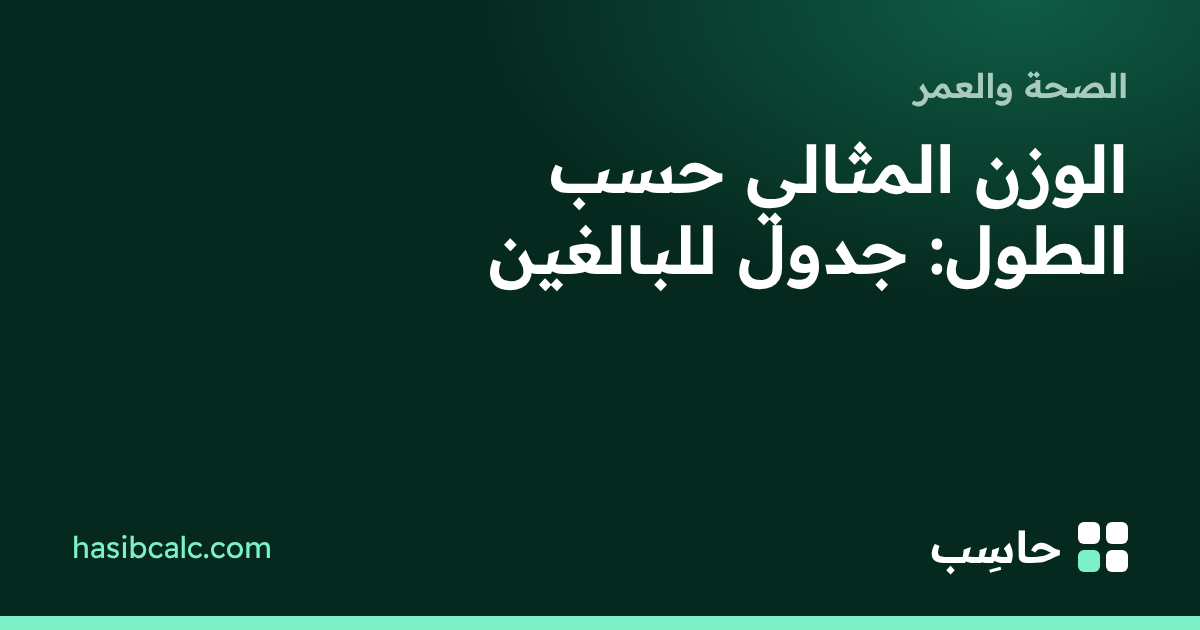
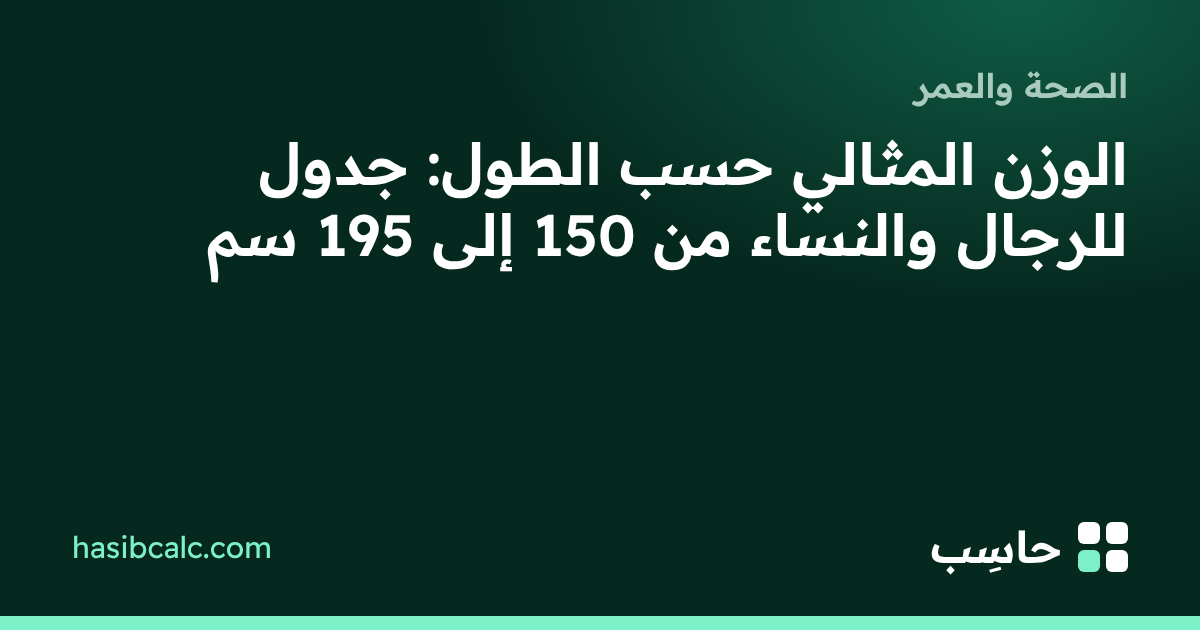
Strengthen the thin guides found in the site audit: zakat (UAE Council for Fatwa nisab by karat 85/92.73/97.15/113.4 g, hawl, 2.5%, worked example from the zakat lib, quick table, 6 FAQs, sources + src-note; source added to /zakat/ too), ideal weight (CDC/WHO categories, table 150–195 with mid-range
Claude-Session: https://claude.ai/code/session_01KKyL8svfUUTjcLXAGNStGe

Changed region(s): [[0.1542, 0.2111, 0.9558, 0.4825]]

diff --git a/src/data/guides.ts b/src/data/guides.ts
@@ -4,15 +4,15 @@ export type Guide = { slug: string; title: string; description: string; calc: st
 export const GUIDES: Guide[] = [
   { slug: 'white-friday-2026', title: 'الجمعة البيضاء 2026: كيف تحسب الخصم الحقيقي وتكشف الخصم الوهمي', description: 'الجمعة البيضاء يوم 27 نوفمبر 2026. عدّاد الأيام الباقية، وطريقة حساب الخصم الحقيقي، ولماذا لا يساوي خصمان 30% و20% خصماً واحداً 50%، وعلامات الخصم الوهمي.', calc: 'discount', date: '2026-10-25', minutes: 5, kicker: 'التسوق والنسب' },
   { slug: 'uae-national-day-2026', title: 'كم باقي على اليوم الوطني الإماراتي 55؟ عدّاد عيد الاتحاد 2026', description: 'عدّاد الأيام الباقية على اليوم الوطني الإماراتي (عيد الاتحاد) الخامس والخمسين يوم 2 ديسمبر 2026، وموعد الإجازة الرسمية، ولماذا نحتفل في 2 ديسمبر.', calc: 'days-between', date: '2026-10-25', updated: '2026-10-28', minutes: 3, kicker: 'التاريخ والوقت' },
-  { slug: 'new-year-2027', title: 'كم باقي على 2027؟ عدّاد رأس السنة الميلادية', description: 'عدّاد الأيام الباقية على رأس السنة الميلادية 2027 (الجمعة 1 يناير)، مع موعد رأس السنة الهجرية 1449 وأهم مواعيد السنة الجديدة.', calc: 'days-between', date: '2026-10-25', minutes: 3, kicker: 'التاريخ والوقت' },
+  { slug: 'new-year-2027', title: 'كم باقي على 2027؟ عدّاد رأس السنة الميلادية', description: 'عدّاد الأيام الباقية على رأس السنة الميلادية 2027 (الجمعة 1 يناير)، مع موعد رأس السنة الهجرية 1449 وأهم مواعيد السنة الجديدة.', calc: 'days-between', date: '2026-10-25', updated: '2026-10-28', minutes: 3, kicker: 'التاريخ والوقت' },
   { slug: 'ramadan-1448', title: 'كم باقي على رمضان 1448؟ موعد رمضان والعيدين بتقويم أم القرى', description: 'عدّاد الأيام المتبقية على رمضان 1448 هـ، وموعد أول رمضان وعيد الفطر ويوم عرفة وعيد الأضحى بتقويم أم القرى، ولماذا قد يختلف الإعلان الرسمي يوماً.', calc: 'hijri', date: '2026-10-21', updated: '2026-10-24', minutes: 4, kicker: 'التاريخ والوقت' },
   { slug: 'end-of-service-guide', title: 'مكافأة نهاية الخدمة في الإمارات: الدليل الكامل بالأمثلة', description: 'كيف تُحسب مكافأة نهاية الخدمة للقطاع الخاص في الإمارات وفق المادة 51: الأجر اليومي، و21 و30 يوماً، والحد الأعلى، وأمثلة محسوبة.', calc: 'end-of-service', date: '2026-10-21', updated: '2026-10-28', minutes: 6, kicker: 'المال والعمل' },
   { slug: 'flat-vs-reducing-interest', title: 'الفرق بين الفائدة الثابتة والمتناقصة وطريقة حساب الفائدة المتناقصة: مثال محسوب', description: 'لماذا تبدو الفائدة الثابتة 4.5% أرخص وهي ليست كذلك؟ مقارنة محسوبة بين الفائدة الثابتة والمتناقصة على قرض 100,000 درهم.', calc: 'loan', date: '2026-10-21', updated: '2026-10-28', minutes: 5, kicker: 'المال والعمل' },
-  { slug: 'vat-gulf-guide', title: 'ضريبة القيمة المضافة في الخليج: النسب وطريقة الحساب', description: 'نسب ضريبة القيمة المضافة في الإمارات والسعودية والبحرين وعُمان، وكيف تضيف الضريبة إلى السعر أو تستخرجها من سعر شامل.', calc: 'vat', date: '2026-10-21', minutes: 4, kicker: 'التسوق والنسب' },
-  { slug: 'zakat-step-by-step', title: 'كيف أحسب زكاة مالي؟ خطوة بخطوة مع مثال', description: 'طريقة حساب زكاة المال: النصاب بالذهب، والحول، وما يدخل في الحساب وما يُخصم، مع مثال محسوب بربع العشر.', calc: 'zakat', date: '2026-10-21', minutes: 5, kicker: 'المال والعمل' },
+  { slug: 'vat-gulf-guide', title: 'ضريبة القيمة المضافة في الخليج: النسب وطريقة الحساب', description: 'نسب ضريبة القيمة المضافة في الإمارات والسعودية والبحرين وعُمان، وكيف تضيف الضريبة إلى السعر أو تستخرجها من سعر شامل، مع جداول جاهزة وطريقة فحص الفاتورة.', calc: 'vat', date: '2026-10-21', updated: '2026-10-28', minutes: 5, kicker: 'التسوق والنسب' },
+  { slug: 'zakat-step-by-step', title: 'طريقة حساب زكاة المال خطوة بخطوة: النصاب بالذهب ومثال محسوب', description: 'كيف تحسب زكاة المال: النصاب قيمة 85 غراماً من الذهب عيار 24 وما يقابله بالعيارات الأخرى، والحول، والديون، وربع العشر 2.5% مع مثال وجدول جاهز.', calc: 'zakat', date: '2026-10-21', updated: '2026-10-28', minutes: 6, kicker: 'المال والعمل' },
   { slug: 'pregnancy-weeks-months', title: 'أسابيع الحمل بالأشهر: جدول من الأسبوع 1 إلى 40، والشهر كم أسبوع؟', description: 'كم أسبوعاً في شهر الحمل، وفي أي شهر أنتِ حسب أسبوعك: جدول كامل يحوّل أسابيع الحمل إلى أشهر وأثلاث، مع محوّل سريع وأسئلة شائعة.', calc: 'pregnancy', date: '2026-10-21', updated: '2026-10-27', minutes: 5, kicker: 'الصحة والعمر' },
-  { slug: 'ideal-weight-by-height', title: 'الوزن المثالي حسب الطول: جدول للبالغين', description: 'جدول الوزن الطبيعي لكل طول من 150 إلى 190 سم بحسب مؤشر كتلة الجسم، وكيف تحسبه لطولك، ومتى لا يكفي هذا المؤشر وحده.', calc: 'bmi', date: '2026-10-21', minutes: 4, kicker: 'الصحة والعمر' },
-  { slug: 'how-to-calculate-percentage', title: 'طريقة حساب النسبة المئوية: ثلاث حالات بأمثلة', description: 'كيف تحسب نسبة من رقم، وكم يمثل رقم من آخر، ونسبة الزيادة أو النقص، مع أمثلة من الراتب والخصومات والدرجات.', calc: 'percentage', date: '2026-10-21', minutes: 4, kicker: 'التسوق والنسب' },
+  { slug: 'ideal-weight-by-height', title: 'الوزن المثالي حسب الطول: جدول للرجال والنساء من 150 إلى 195 سم', description: 'جدول الوزن الطبيعي لكل طول من 150 إلى 195 سم بحسب مؤشر كتلة الجسم 18.5–24.9، ومنتصف النطاق، وطريقة حسابه لطولك، ومتى لا يكفي هذا المؤشر.', calc: 'bmi', date: '2026-10-21', updated: '2026-10-28', minutes: 5, kicker: 'الصحة والعمر' },
+  { slug: 'how-to-calculate-percentage', title: 'طريقة حساب النسبة المئوية: ثلاث حالات بأمثلة', description: 'كيف تحسب نسبة من رقم، وكم يمثل رقم من آخر، ونسبة الزيادة أو النقص، مع أمثلة من الراتب والخصومات والدرجات.', calc: 'percentage', date: '2026-10-21', updated: '2026-10-28', minutes: 4, kicker: 'التسوق والنسب' },
   { slug: 'age-in-hijri', title: 'كيف أحسب عمري بالهجري؟ الطريقة اليدوية وجدول أعمار المواليد في 1448', description: 'احسب عمرك بالهجري بأربع خطوات بمثال محسوب، مع جدول «كم عمر مواليد 1400–1430 هـ» وجدول مواليد 1980–2010 بالهجري، ولماذا العمر الهجري أكبر.', calc: 'hijri-age', date: '2026-10-21', updated: '2026-10-26', minutes: 5, kicker: 'التاريخ والوقت' },
 ];
 export const guideBySlug = (s: string) => GUIDES.find((g) => g.slug === s)!;
